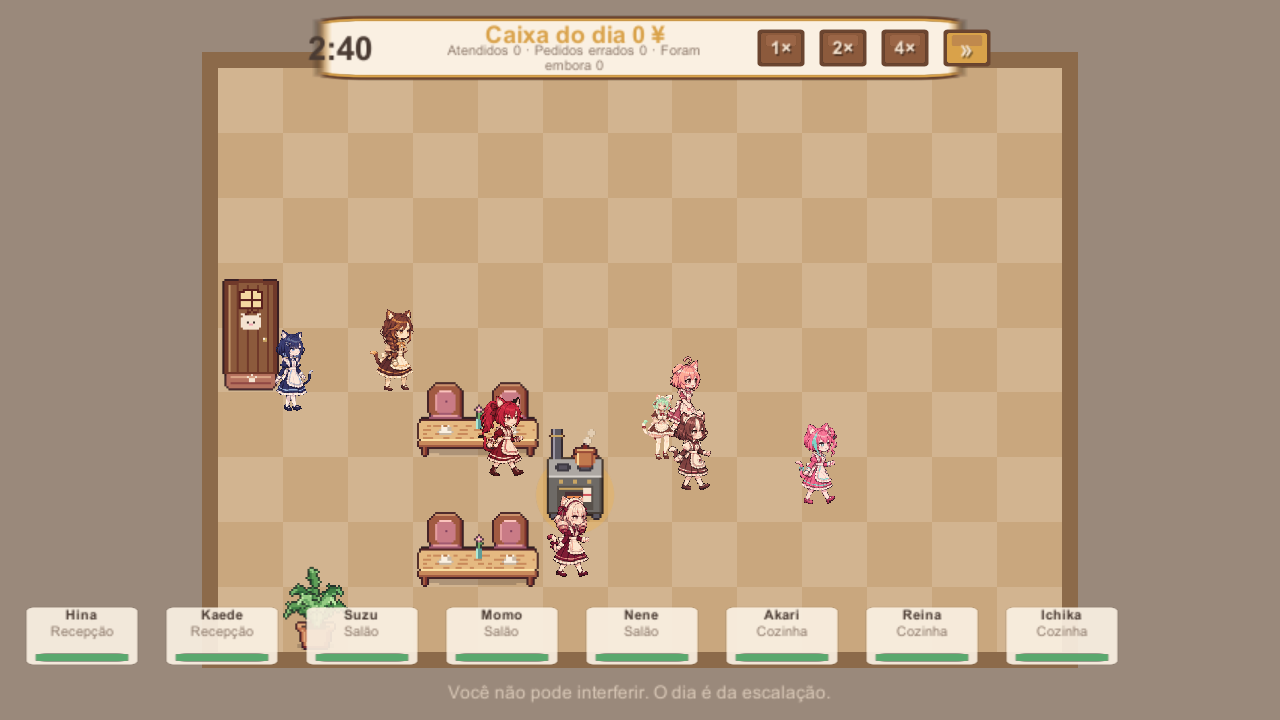
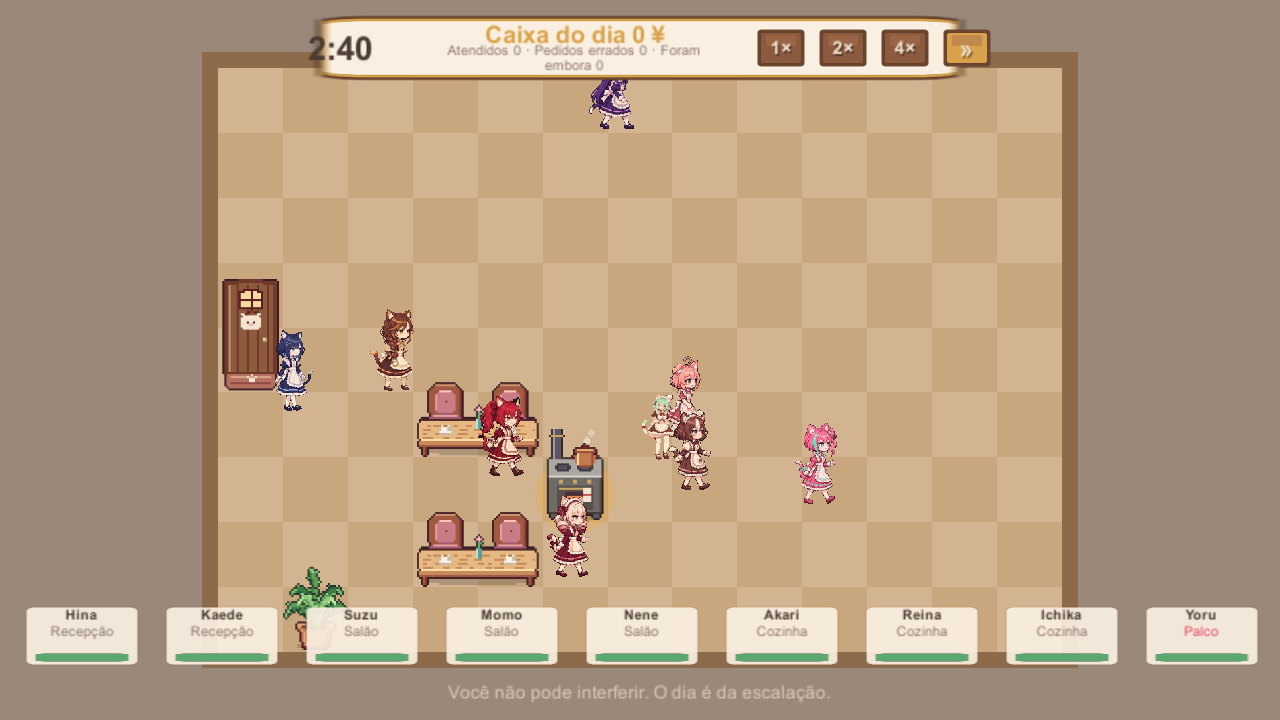
feat(art): integrate Yoru and fix frame discovery; keep Suzu's mint sheet
Yoru's export is named .gitignore00NN.png, which glob skipped; the tool now accepts any
<prefix><digits>.png and process --only merges into the catalog. Suzu's new_frames still draw
Hina, so they stay unpacked. Allowlist gains yoru_walk.png only.

Changed region(s): [[0.875, 0.825, 1.0, 0.9472], [0.4375, 0.0917, 0.5, 0.1833]]

diff --git a/tools/art/maid_walk/maid_walk.py b/tools/art/maid_walk/maid_walk.py
@@ -22,6 +22,7 @@ import glob
 import hashlib
 import json
 import os
+import re
 import sys
 
 import numpy as np
@@ -203,9 +204,15 @@ def status_for(report, m):
 
 # ------------------------------------------------------------------------------ main work
 def prepare(m):
+    # Not glob("*.png"): glob skips dot-files, and one export arrived as ".gitignore0057.png".
+    # Any "<prefix><digits>.png" counts; the files themselves are never renamed.
     path = os.path.join(ROOT, "art_working", m["folder"])
-    paths = sorted(glob.glob(os.path.join(path, "*.png")))
-    return paths
+    found = []
+    for name in os.listdir(path) if os.path.isdir(path) else []:
+        hit = re.search(r"(\d+)\.png$", name, re.I)
+        if hit:
+            found.append((int(hit.group(1)), os.path.join(path, name)))
+    return [p for _, p in sorted(found)]
 
 
 def run(m, write):
@@ -214,7 +221,7 @@ def run(m, write):
     if not paths:
         result.update(status="REJECTED", note=m.get("reject_reason", "no frames"))
         return result, None
-    nums = [int(os.path.splitext(os.path.basename(p))[0]) for p in paths]
+    nums = [int(re.search(r"(\d+)\.png$", os.path.basename(p), re.I).group(1)) for p in paths]
     result["numbering"] = [nums[0], nums[-1]]
     result["gaps"] = [b for a, b in zip(nums, nums[1:]) if b != a + 1]
     raw = [np.array(Image.open(p).convert("RGBA")) for p in paths]
@@ -412,24 +419,28 @@ def main():
                     json.dump(res, f, indent=1)
         results.append(res)
         print(json.dumps({k: res[k] for k in res if k not in ("source_sha256",)}), flush=True)
-    if write and not only:
-        catalog_entries = []
+    if write:
+        # Merge into the existing catalog: entries of maids not processed this run stay untouched.
+        cat_path = os.path.join(OUT_RES, "maid_walk_catalog.json")
+        existing = {}
+        if os.path.exists(cat_path):
+            existing = {e["id"]: e for e in json.load(open(cat_path, encoding="utf8"))["maids"]}
+        for leg in cfg["legacy"]:
+            existing.setdefault(leg["id"], leg)
         for r in results:
             if r.get("resource"):
                 m = next(x for x in maids if x["id"] == r["id"])
-                catalog_entries.append({
+                existing[r["id"]] = {
                     "id": r["id"], "name": r["name"], "archetype": m["archetype"], "resource": r["resource"],
                     "frames": r["frames"], "columns": r["columns"], "rows": r["rows"], "cell": r["cell"],
                     "pixels_per_unit": m["pixels_per_unit"], "idle_frame": r["idle_frame"], "rest_frames": r["rest_frames"],
-                    "units_per_cycle": r.get("units_per_cycle", r["noslide_units_per_cycle"]),
+                    "units_per_cycle": r["units_per_cycle"],
                     "body_offset_y": m["body_offset_y"], "carried_offset_y": m["carried_offset_y"],
-                    "source": "docs/art/maid-walk/%s/manifest.json" % r["id"]})
-        ids = {e["id"] for e in catalog_entries}
-        for leg in cfg["legacy"]:
-            if leg["id"] not in ids:
-                catalog_entries.insert(0, leg)
-        with open(os.path.join(OUT_RES, "maid_walk_catalog.json"), "w", encoding="utf8", newline="\n") as f:
-            json.dump({"maids": catalog_entries}, f, indent=1)
+                    "source": "docs/art/maid-walk/%s/manifest.json" % r["id"]}
+        order = [m["id"] for m in cfg["maids"]]
+        entries = sorted(existing.values(), key=lambda e: order.index(e["id"]) if e["id"] in order else 99)
+        with open(cat_path, "w", encoding="utf8", newline="\n") as f:
+            json.dump({"maids": entries}, f, indent=1)
             f.write("\n")
     if write:
         for f in glob.glob(os.path.join(OUT_RES, "*_walk.png")):

diff --git a/Assets/_Game/Tests/EditMode/Game/MaidAnimCatalogTests.cs b/Assets/_Game/Tests/EditMode/Game/MaidAnimCatalogTests.cs
@@ -9,11 +9,11 @@ using UnityEngine;
 
 namespace Neko.Tests.EditMode.Game
 {
-    /// <summary>The shared catalog of authored walk sheets (Suzu legacy sheet plus the ART-03 maids).</summary>
+    /// <summary>The shared catalog of authored walk sheets (Suzu legacy sheet plus the ART-03 maids, nine in all).</summary>
     public sealed class MaidAnimCatalogTests
     {
         private static readonly string[] Expected =
-            { "suzu", "hina", "akari", "momo", "reina", "kaede", "nene", "ichika" };
+            { "suzu", "hina", "akari", "momo", "reina", "kaede", "nene", "ichika", "yoru" };
 
         private SpriteFactory _factory;
 
@@ -43,7 +43,6 @@ namespace Neko.Tests.EditMode.Game
             }
 
             Assert.IsNull(MaidAnimCatalog.Resolve(Maid("Mina", Archetype.Genki)));
-            Assert.IsNull(MaidAnimCatalog.Resolve(Maid("Yoru", Archetype.Mukuchi)), "no walk exists for Yoru yet");
             Assert.IsNull(MaidAnimCatalog.Resolve(null));
         }
 
@@ -94,7 +93,7 @@ namespace Neko.Tests.EditMode.Game
             long pixels = 0;
             foreach (var entry in MaidAnimCatalog.All)
                 pixels += Resources.Load<Texture2D>(entry.resource).width * Resources.Load<Texture2D>(entry.resource).height;
-            Assert.Less(pixels * 4, 10L * 1024 * 1024, "the walk sheets must stay under 10 MB uncompressed (8.2 MB measured for eight)");
+            Assert.Less(pixels * 4, 12L * 1024 * 1024, "the walk sheets must stay under 12 MB uncompressed (about 10.2 MB measured for nine)");
         }
 
         [Test]

diff --git a/Assets/_Game/Tests/PlayMode/MaidGameplayTests.cs b/Assets/_Game/Tests/PlayMode/MaidGameplayTests.cs
@@ -25,7 +25,7 @@ namespace Neko.Tests.PlayMode
     public sealed class MaidGameplayTests
     {
         private static readonly string[] Ids =
-            { "suzu", "hina", "akari", "momo", "reina", "kaede", "nene", "ichika" };
+            { "suzu", "hina", "akari", "momo", "reina", "kaede", "nene", "ichika", "yoru" };
 
         private bool _hadSave;
         private string _save;
@@ -266,8 +266,8 @@ namespace Neko.Tests.PlayMode
             profile.ApplyUnlocks();
 
             // In memory only (the save is restored afterwards): enough extra maids to field all
-            // eight identities at once, because the opening roster is three.
-            var roles = new[] { Role.Reception, Role.Floor, Role.Kitchen, Role.Floor, Role.Kitchen, Role.Reception, Role.Floor, Role.Kitchen };
+            // nine identities at once, because the opening roster is three.
+            var roles = new[] { Role.Reception, Role.Floor, Role.Kitchen, Role.Floor, Role.Kitchen, Role.Reception, Role.Floor, Role.Kitchen, Role.Floor };
             for (var n = profile.Maids.Count; n < Ids.Length; n++)
             {
                 profile.Maids.Add(new Maid { Id = 900 + n, Name = "Fixture" + n, Archetype = Archetype.Genki,

diff --git a/Assets/_Game/Tests/EditMode/Game/DocsTests.cs b/Assets/_Game/Tests/EditMode/Game/DocsTests.cs
@@ -136,6 +136,7 @@ namespace Neko.Tests.Game
                 "Assets/_Game/Resources/Maids/momo_walk.png",
                 "Assets/_Game/Resources/Maids/nene_walk.png",
                 "Assets/_Game/Resources/Maids/reina_walk.png",
+                "Assets/_Game/Resources/Maids/yoru_walk.png",
             },
                 expected.Keys);
 

diff --git a/docs/art/maid-walk/INVENTORY.md b/docs/art/maid-walk/INVENTORY.md
@@ -1,4 +1,4 @@
-# ART-03 — Inventory of the nine walk sequences
+# ART-03 — Inventory of the nine walk sequences (eight integrated)
 
 Generated by `python tools/art/maid_walk/maid_walk.py audit|process`; raw frames are git-ignored and untouched. Statuses: READY / NEEDS_PROCESSING (fixed offline) / LIMITED (usable, known limits) / REJECTED (not integrated).
 
@@ -12,16 +12,14 @@ Generated by `python tools/art/maid_walk/maid_walk.py audit|process`; raw frames
 | Kaede | Onee-san | 28 (35-62) | 1920x1080 | LIMITED | 17 | 76x124 | 13 / 5 | 1.25 | 3.8x |
 | Nene | Idol | 25 (50-74) | 1920x1080 | NEEDS_PROCESSING | 25 | 72x124 | 14 / 6 | 1.83 | 2.8x |
 | Ichika | Gourmand | 24 (92-115) | 1920x1080 | NEEDS_PROCESSING | 24 | 74x124 | 11 / 4 | 1.76 | 2.8x |
-| Yoru | Mukuchi | 0 | - | REJECTED | - | - | - | - | - |
+| Yoru | Mukuchi | 34 (57-90) | 1920x1080 | NEEDS_PROCESSING | 34 | 90x124 | 19 / 6 | 2.49 | 4.1x |
 
 ## Per maid
 
-### Suzu — REJECTED
-- 34 PNG, 1920x1080 RGBA, numbers 15-48, gaps: none. Alpha levels in frame 1: 256.
-- Body height 870 px (range 862-875); axis drift 7 px (std 2.0), foot-line drift 11 px; faint matte pixels 118418; chroma pixels 0; specks removed 0.
-- Loop: last-to-first difference is 0.75x a normal step before trimming. Duplicated neighbours: 0.
-- Foot speed 1.47 px/frame, widest stance 30 px: a drawn walk that fits 0.52 world units per cycle without sliding.
-- Verdict: The 34 local frames draw Hina's design (navy bob, triangular silver clip, ice-blue eyes), not Suzu's (mint bob, amber eyes, notched ear, bells). Packing them would give Suzu a second Hina. The previously integrated mint sheet stays in use (legacy entry).
+### Suzu — REJECTED (new frames); legacy mint sheet stays
+- `walk_x/new_frames/`: 34 PNG (15-48), 1920x1080. Visual check: they draw **Hina's design** (navy bob, triangular silver clip, ice-blue eyes, no bells, no mint, no amber). Not packed.
+- `walk_x/frames/` holds the 30 mint frames behind the sheet already integrated (legacy entry, 4b7b6174...). Suzu keeps that sheet; nothing was removed.
+- To integrate a real new Suzu: export mint/amber frames, point `maids.json` at them, drop `pack: false`, run `process --only suzu` (the catalog is merged, other entries are untouched) and add the sheet hash to the allowlist.
 
 ### Hina — NEEDS_PROCESSING
 - 35 PNG, 1920x1080 RGBA, numbers 15-49, gaps: none. Alpha levels in frame 1: 256.
@@ -72,8 +70,10 @@ Generated by `python tools/art/maid_walk/maid_walk.py audit|process`; raw frames
 - Foot speed 2.56 px/frame, widest stance 37 px: a drawn walk that fits 0.64 world units per cycle without sliding.
 - Verdict: faint matte removed
 
-### Yoru — REJECTED
-- The folder `art_working/09_yoru/step4_blender/walk_x/frames/` is empty. Nothing to audit or integrate; Yoru keeps the procedural figure until frames are exported.
+### Yoru — NEEDS_PROCESSING
+- 34 PNG, 1920x1080 RGBA, numbers 57-90, gaps: none. The files are named `.gitignore0057.png` ... `.gitignore0090.png` (a leading-dot prefix from the export), which `glob("*.png")` skips and `int(basename)` cannot parse: that is why the first audit saw zero frames. The tool now accepts any `<prefix><digits>.png`; the originals are neither renamed nor copied (they are already the backup) and the prefix has nothing to do with Git ignore rules.
+- Body height 840.2 px; axis std 10.4 px (long hair and tail sway); faint matte pixels 403140; loop closes (0.87x a normal step). Verified visually: purple long hair over the left eye, crescent clip, white-tipped ears and tail.
+- Verdict: faint matte removed offline; usable.
 
 ## Cadence and foot sliding (known limitation)
 
@@ -81,7 +81,7 @@ Every sequence is a slow walk in place: the planted foot travels 1-2.4 px per fr
 
 ## Identity decisions
 
-- `01_suzu` frames draw **Hina's design** (navy bob, triangular silver clip, ice-blue eyes). They are REJECTED and not packed so Suzu does not become a second Hina. The previously integrated mint sheet stays as the legacy catalog entry (rollback intact). If the intended regenerated Suzu was exported to another folder, point `maids.json` at it, run `process` and update the allowlist.
+- `01_suzu/.../new_frames` also draws Hina's design: REJECTED, see the Suzu section. The mint sheet stays as the legacy catalog entry.
 - Hina's local frames are the Hina design: used for Hina.
 - Runtime resolution is unchanged in spirit: **name and archetype must both match** (`MaidAnimCatalog.Resolve`). A drawn "Hina" of another archetype stays procedural. Nothing is persisted and no save migration exists; a persistent `visual_id` (or one design per archetype) is a product decision left to the owner.
 - Any equipped gear returns the procedural layered figure, because gear is drawn as layers a flat sheet cannot show.

diff --git a/docs/art/maid-walk/README.md b/docs/art/maid-walk/README.md
@@ -1,6 +1,6 @@
 # Maid walk cycles in the game (ART-03)
 
-Eight maids walk with authored sheets in the real shift: Suzu (legacy mint sheet), Hina, Akari, Momo, Reina, Kaede, Nene and Ichika. **Yoru has no frames** and the new `01_suzu` frames draw Hina, so neither is integrated. Details, per-maid QA and limits: [INVENTORY.md](INVENTORY.md).
+Nine maids walk with authored sheets in the real shift: Suzu (legacy mint sheet), Hina, Akari, Momo, Reina, Kaede, Nene, Ichika and Yoru. The `01_suzu/.../new_frames` PNGs draw Hina, so they are not integrated. Details, per-maid QA and limits: [INVENTORY.md](INVENTORY.md).
 
 ## Architecture
 - `tools/art/maid_walk/maids.json` — roster and per-maid parameters; `maid_walk.py audit|process` — reproducible pipeline (clean, chroma key, loop trim, foot/axis anchor, one resample, palette, pack, rest-frame and idle detection, manifest with source SHA-256).
@@ -11,7 +11,7 @@ Eight maids walk with authored sheets in the real shift: Suzu (legacy mint sheet
 ## See each maid in a real automatic shift
 Window > General > Test Runner > PlayMode, run `MaidGameplayTests`:
 - `EachAuthoredMaidWalksInARealShiftAndTheDayStillEnds` — one case per maid (renames a floor maid in memory only; your save is restored afterwards).
-- To watch rather than assert: set environment variable `NEKO_MAID_CAPTURE_DIR=<folder>` before opening Unity; `CaptureEachMaidWalking` writes 960x600 and 1280x720 stills per maid, `CaptureAllTogetherInTheBiggestRoom` fields all eight at once in the 13x9 room (extra maids added in memory only).
+- To watch rather than assert: set environment variable `NEKO_MAID_CAPTURE_DIR=<folder>` before opening Unity; `CaptureEachMaidWalking` writes 960x600 and 1280x720 stills per maid, `CaptureAllTogetherInTheBiggestRoom` fields all nine at once in the 13x9 room (extra maids added in memory only).
 - Regenerate sheets: `python tools/art/maid_walk/maid_walk.py process` (needs the local raw frames), then update the hashes in `docs/art/SUZU_ASSET_PROVENANCE.md`.
 
 ## Trade-offs
@@ -20,4 +20,4 @@ Window > General > Test Runner > PlayMode, run `MaidGameplayTests`:
 - **Loops**: Momo (27→20 frames), Reina (36→33) and Kaede (28→17) were trimmed to the stretch that loops; Kaede still jumps slightly at the wrap (LIMITED).
 - **Equipment**: gear removes the authored look (layers cannot be drawn over a flat sheet).
 - **Only walk exists**: Idle/Carry/Cook/Tired reuse walk frames, plate and dimming.
-- **Memory**: eight sheets, 8.2 MB uncompressed in total, shared per sheet through `SpriteFactory`; WebGL build not measured.
+- **Memory**: nine sheets, ~10.2 MB uncompressed in total, shared per sheet through `SpriteFactory`; WebGL build not measured.

diff --git a/docs/art/SUZU_ASSET_PROVENANCE.md b/docs/art/SUZU_ASSET_PROVENANCE.md
@@ -1,6 +1,6 @@
 # Suzu — imported runtime asset
 
-The textures imported into the player are the Suzu walk sheet and the seven maid walk sheets of ART-03 (below).
+The textures imported into the player are the Suzu walk sheet and the eight maid walk sheets of ART-03 (below).
 
 **Origin.** Suzu was designed in this project (ChatGPT image, D-pixel-cafe direction), animated
 from a still with Tencent AI Studio, exported to 30 PNG frames with Blender
@@ -26,15 +26,16 @@ fa83f45386f2fe18a3d21706e4dbf516faa80f415a86dd5df01c3136ee510398  Assets/_Game/R
 53cf87055f9343b87967bf813c15e0a374434089d659fd52fbc6139093395093  Assets/_Game/Resources/Maids/momo_walk.png
 9f8ab9019ec6d2fd9cd439dd7ef4a96335da21f966facc7c598d0267c005c9e8  Assets/_Game/Resources/Maids/nene_walk.png
 ea474732cd88803e75b065226ddcb020bd56e1267f65a6f3265633cc3eb80400  Assets/_Game/Resources/Maids/reina_walk.png
+d41e914497c053ee213555e89b73c91dcfe86a09ad7c0b6ea5f4b2ecca3c8cad  Assets/_Game/Resources/Maids/yoru_walk.png
 ```
 
 ## Maid walk sheets (ART-03)
 
-Hina, Akari, Momo, Reina, Kaede, Nene and Ichika were designed in this project (same chain as Suzu:
+Hina, Akari, Momo, Reina, Kaede, Nene, Ichika and Yoru were designed in this project (same chain as Suzu:
 ChatGPT image, Tencent AI Studio animation, Blender frame export to the git-ignored
 `art_working/<NN_maid>/step4_blender/walk_x/frames/`, never modified). Each sheet is produced by
 `tools/art/maid_walk/maid_walk.py process` (parameters, per-frame source SHA-256 and the sheet hash are in
 `docs/art/maid-walk/<id>/manifest.json`). Import settings are those of the Suzu sheet (Point, no mipmaps,
 uncompressed, non-readable). The hashes are in the allowlist block above, which `DocsTests` checks.
 
-Suzu's and Yoru's new sequences are **not** imported: see `docs/art/maid-walk/INVENTORY.md`.
+Suzu's `new_frames` sequence (which draws Hina) is **not** imported; her mint sheet above stays. See `docs/art/maid-walk/INVENTORY.md`.
